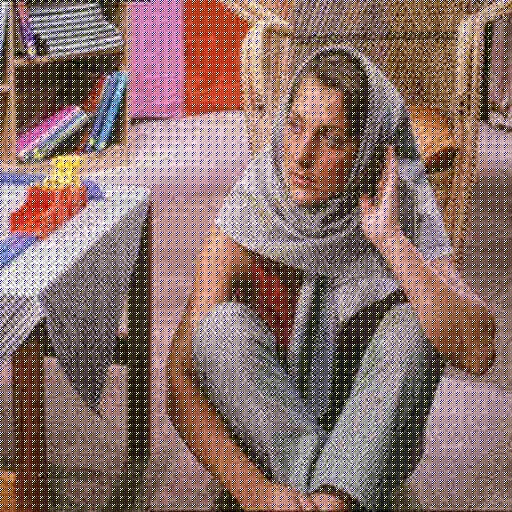
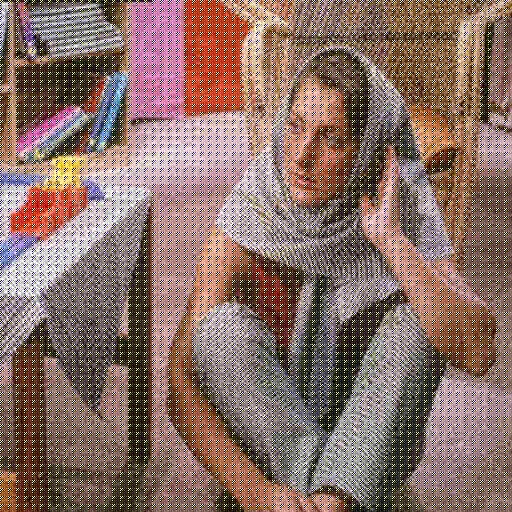
fix 1-B

diff --git a/hw2/Q1/1.py b/hw2/Q1/1.py
@@ -227,6 +227,9 @@ def A(image, n, m):
 def B(image, n, m):
     # convert to YCbCr
     imageYCbCr = RGB2YCbCr(image)
+    # apply 4:2:0
+    imageYCbCr[1::2, :] = imageYCbCr[::2, :]
+    imageYCbCr[:, 1::2] = imageYCbCr[:, ::2] 
     # shift pixel values by subtracting 128
     imageYCbCr = imageYCbCr - 128
 
